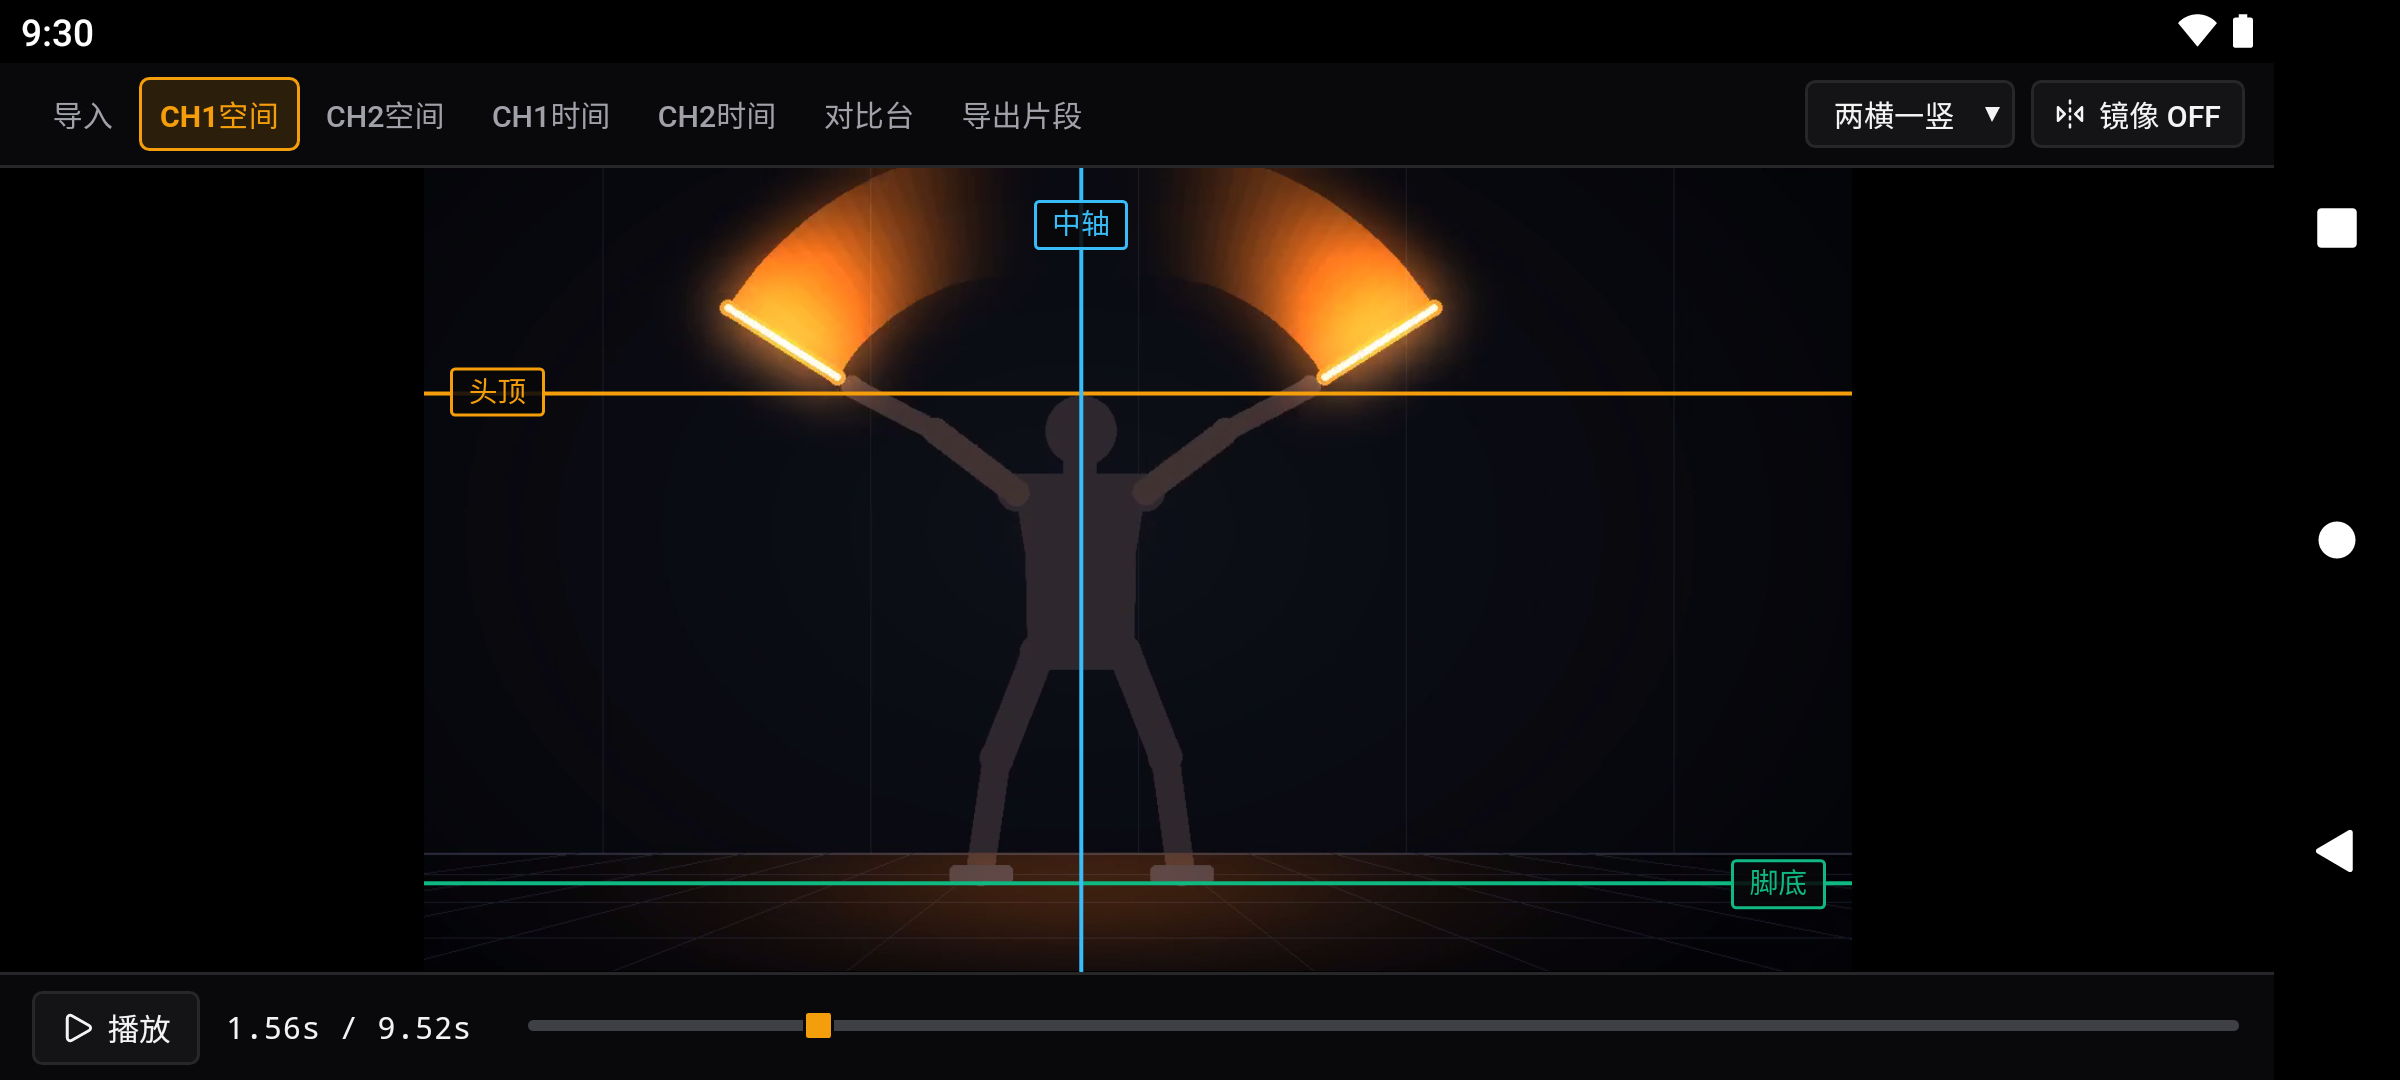
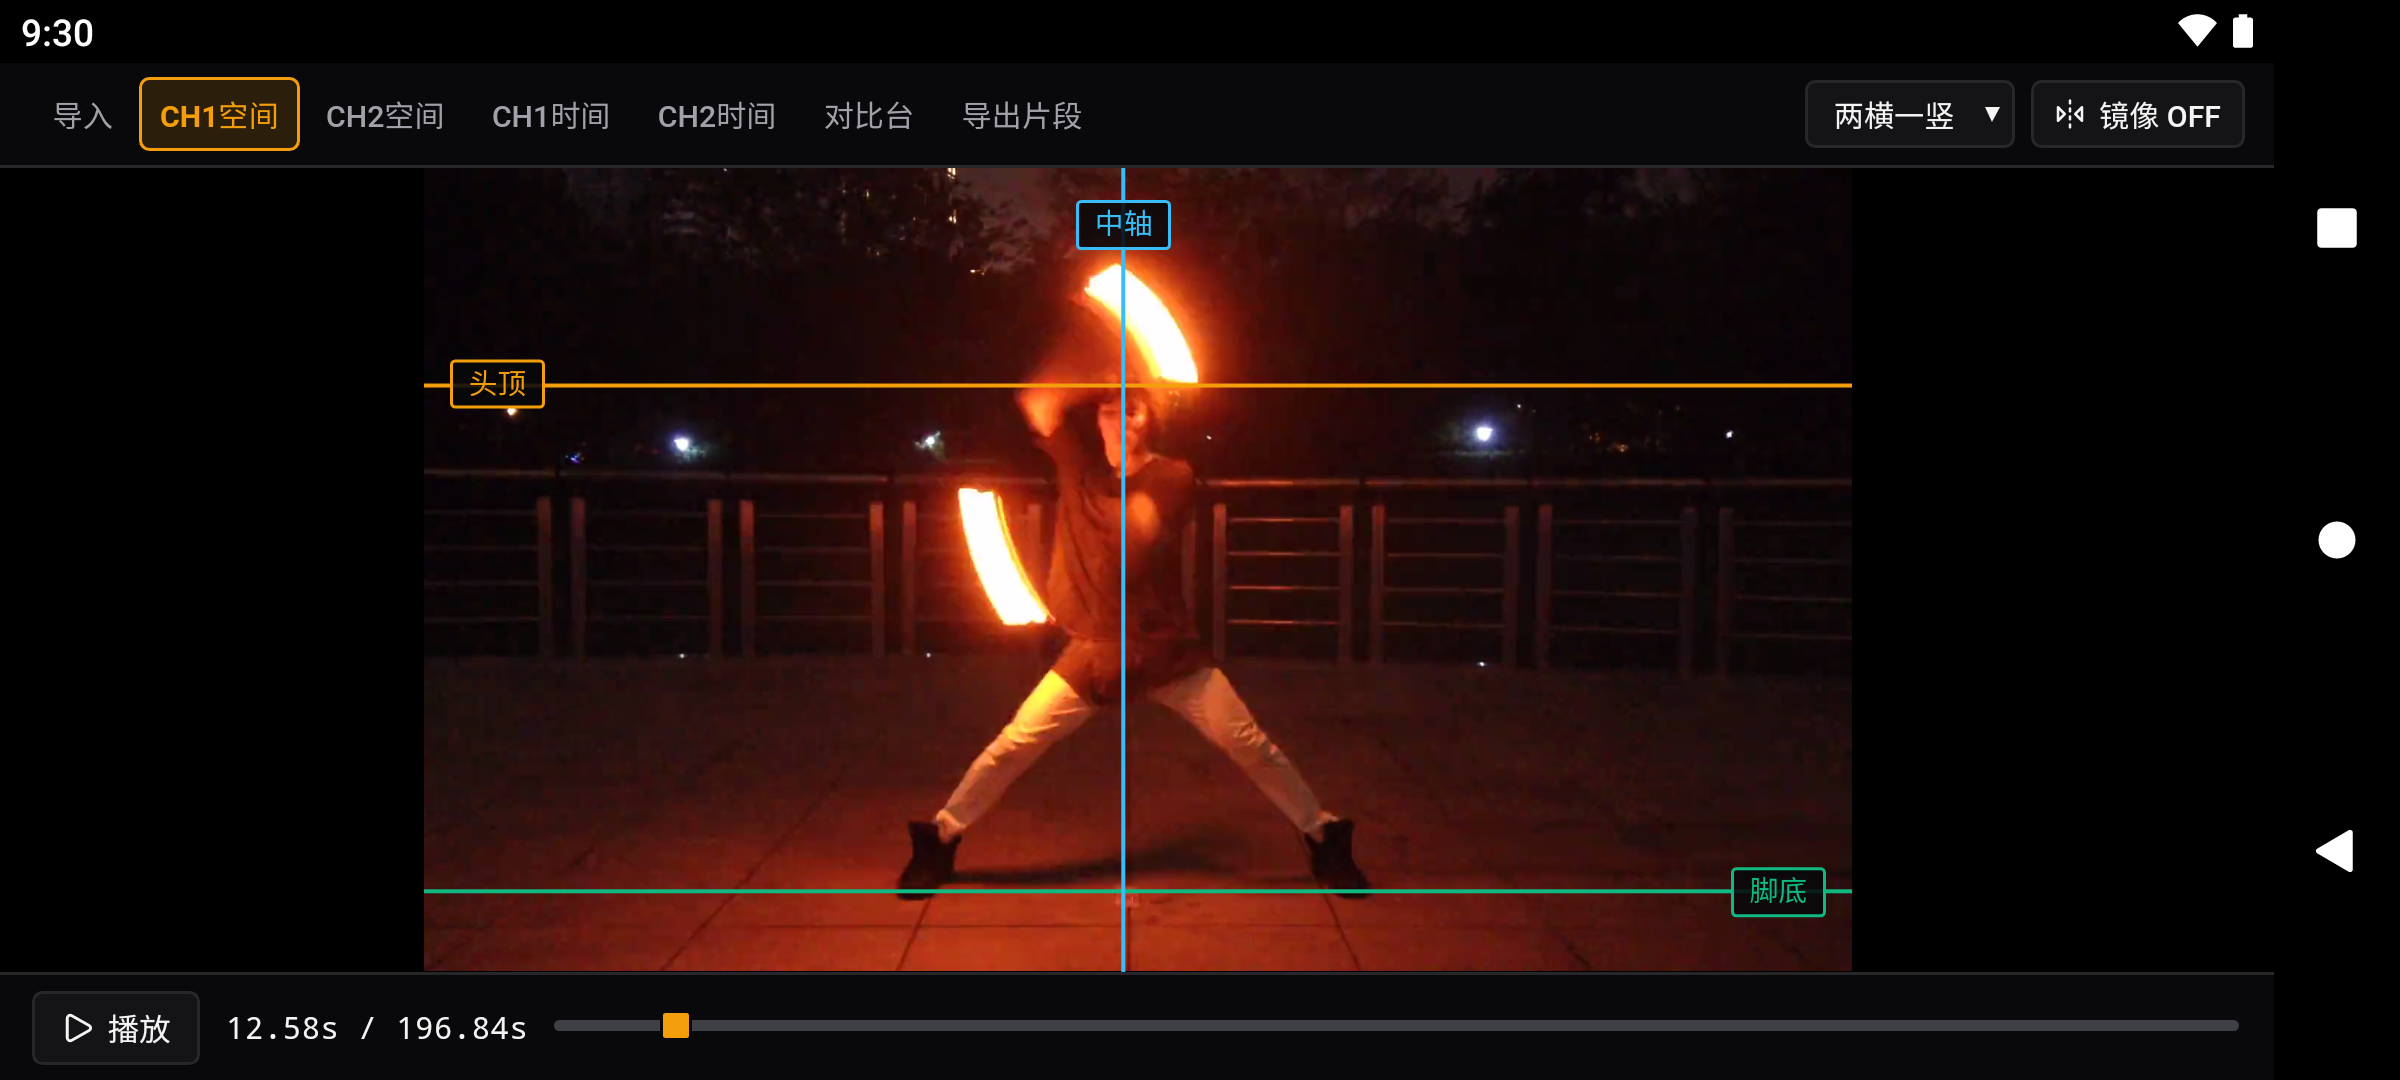
docs(assets): 替换为真实 WOTA 艺实拍对比截图并补充素材致谢

diff --git a/README_EN.md b/README_EN.md
@@ -152,6 +152,11 @@ Bug reports, device compatibility feedback, and pull requests are welcome. Pleas
 2. **Landscape & Safe-Area Layout**: Every view is designed for short-height mobile landscape viewports. Ensure UI changes respect display cutouts, status bars, and 3-button navigation bar insets via CSS safe-area variables without clipping primary controls.
 3. **Algorithm Verification**: When changing math or state machines in `src/core/` or the native exporter, run the corresponding `.verify.ts` scripts and Gradle unit tests.
 
+## Acknowledgements
+
+- Thanks to **夜瞑 (Yeming)** for authorizing the demonstration footage used in the screenshots.
+- Thanks to members of **ShanghaiTech Prism Anime Club · Lucifer Wotagei Team** for device testing and feedback.
+
 ## License
 
 Released under the [MIT License](./LICENSE).

diff --git a/README.md b/README.md
@@ -152,6 +152,11 @@ Wotagei-Compare/
 2. **横屏与安全区适配**：所有界面均面向手机横屏窄高度视口设计，改动布局时需兼顾刘海打孔屏、常驻状态栏与侧边虚拟导航栏（CSS 安全区变量）的避让，确保关键按钮首屏无截断。
 3. **验证回归**：修改 `src/core/` 或原生导出逻辑后，请运行对应的 `.verify.ts` 脚本或 Gradle 单元测试验证数学映射关系一致。
 
+## 致谢
+
+- 感谢 **夜瞑** 授权提供演示视频素材（《\[A\]ddiction 楽園 艺龄五年纪念》《金刚 真龙》）。
+- 感谢 **上海科技大学 Prism 漫研社 Lucifer WOTA 艺团** 成员参与实机测试与反馈。
+
 ## 开源协议
 
 本项目基于 [MIT License](./LICENSE) 开源。
